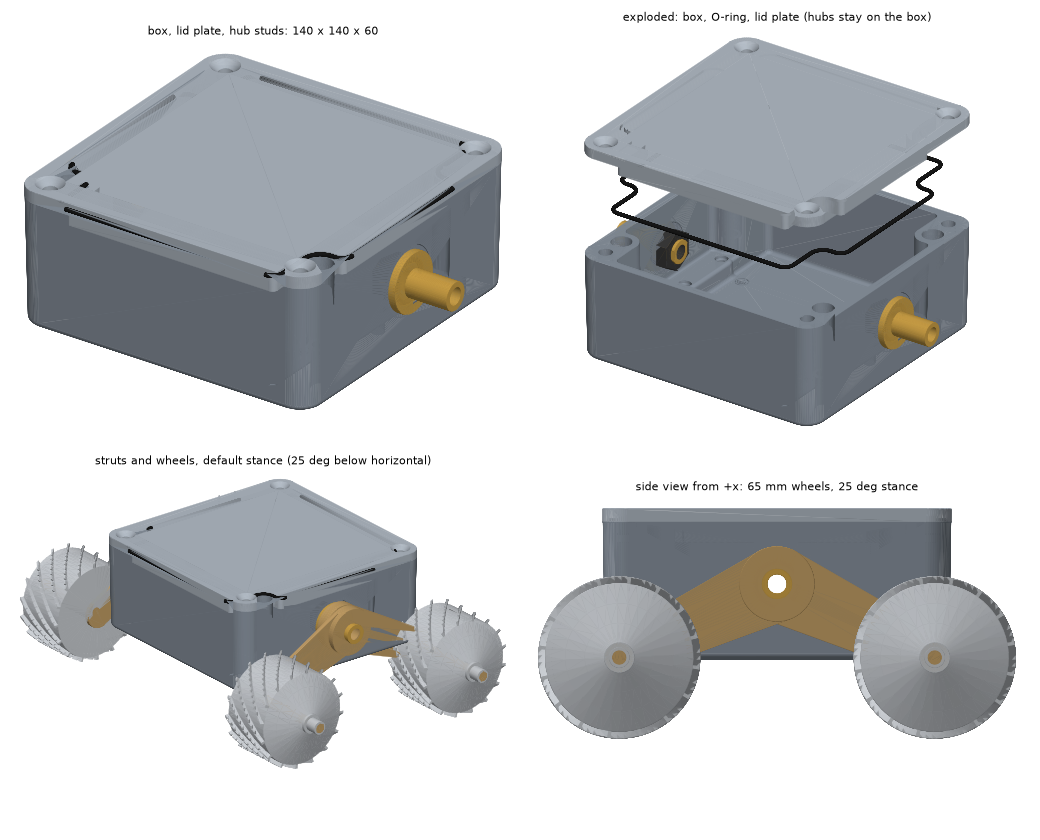
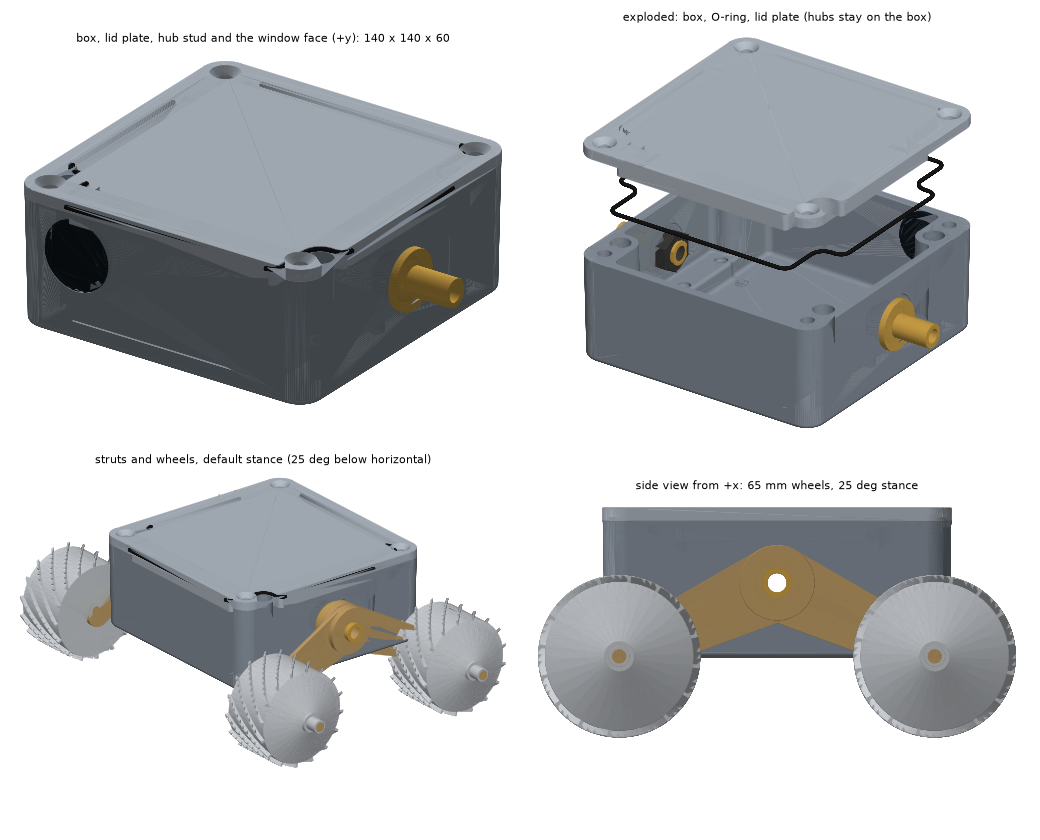
Measure the second photo's end face and model the viewing window
Window 26 mm across, axis 29 mm from the face edge and 36.8 mm above the base; connector panel, screws and the top block measured and recorded.

Claude-Session: https://claude.ai/code/session_01B6dv3QuHVS7hsLwZuvmfHM

diff --git a/hardware/body/body.py b/hardware/body/body.py
@@ -27,6 +27,10 @@ modelled as a stationary hollow pivot stud on each 140 x 60 face (x = +-70, y = 
 on, with no rotating shaft through the wall: the seals are static (a face O-ring under the stud flange) and the
 wires go through the stud bore and are potted.  A double-D shank keeps the stud from turning.
 
+Viewing window: the second JPL photo shows a round window and a connector panel on one 140 x 60 end face.  Rectifying that
+face puts the window axis 29 mm from one edge and 37 mm above the base, 26 mm across.  It is modelled on the y = +70 face as a 26 mm aperture
+with a 31 mm counterbore and a bonded pane.  The connector panel (about 22 x 14.5 mm) and the small screws are not modelled.
+
 Cover-screw threads: each boss is only 5 mm tall (z 50 to the rim at 55) and its bore is open at the bottom
 into the cavity.  A 1D (6 mm) M6 x 1.0 helical insert is fitted flush with the top (recessed 0.4 mm); it
 stands 1.4 mm out of the bottom of the boss.  The bore is modelled at the tapped major diameter (7.2 mm).
@@ -87,6 +91,13 @@ HUB_AXLE_L = 20.0    # axle stub outside the flange (placeholder for the strut b
 HUB_OR_ID, HUB_OR_CS = 16.0, 1.5         # face O-ring 16 x 1.5
 HUB_GROOVE_W, HUB_GROOVE_D = 2.0, 1.1
 NUT_AF, NUT_H = 19.0, 6.0                # M12 thin jam nut (check the standard for your nut)
+WINDOW = True        # round viewing window on the +y end face (the camera / IR spectrometer window)
+WIN_X = 40.8         # window axis: |x| offset along the face. Seen from outside (standing at +y, looking at the face) the window is on the LEFT, i.e. x = +40.8
+WIN_Z = 36.8         # height above the floor of the window axis (from the second JPL photo)
+WIN_D = 26.0         # aperture diameter
+WIN_CB_D = 31.0      # counterbore for the pane
+WIN_FLOOR_Y = 67.2   # counterbore floor plane (the outer wall face is 69.64 at z = 36.8 and leans about 1 degree)
+PANE_D, PANE_T = 30.6, 2.0   # glass or acrylic pane, bonded in with RTV
 # --------------------------------------------
 
 RIM_R = 10.0         # outer corner radius of the casting (measured from the STEP)
@@ -181,6 +192,21 @@ def main():
             hub_parts.append(at_hub(stud, side))
             hub_orings.append(at_hub(oring_h, side))
             hub_nuts.append(at_hub(nut, side))
+
+    # 2d. Viewing window on the +y end face
+    pane = None
+    if WINDOW:
+        def on_y(shape, y0):
+            """Shape built along +z, placed with its base at (WIN_X, y0, WIN_Z) pointing along +y."""
+            return shape.moved(Location(Plane(origin=(WIN_X, y0, WIN_Z), x_dir=(1, 0, 0), z_dir=(0, 1, 0))))
+        before = body.volume
+        aperture = Cylinder(WIN_D / 2, 12, align=(Align.CENTER, Align.CENTER, Align.MIN))
+        cbore = Cylinder(WIN_CB_D / 2, 8, align=(Align.CENTER, Align.CENTER, Align.MIN))
+        body = body - on_y(aperture, 62.0) - on_y(cbore, WIN_FLOOR_Y)
+        removed = before - body.volume
+        expect = math.pi * (WIN_D / 2) ** 2 * (WIN_FLOOR_Y - 65.06) + math.pi * (WIN_CB_D / 2) ** 2 * (69.64 - WIN_FLOOR_Y)
+        pane = on_y(Cylinder(PANE_D / 2, PANE_T, align=(Align.CENTER, Align.CENTER, Align.MIN)), WIN_FLOOR_Y)
+        win_info = (removed, expect)
 
     # 3. Lid plate: 140 x 140, R10 corners (matches the box at the rim), groove on its underside
     plate = extrude(RectangleRounded(140, 140, 10), PLATE_T).moved(Location((0, 0, Z_CUT)))
@@ -292,12 +318,22 @@ def main():
         print(f"                    stud mass {sum(p.volume for p in hub_parts) * 7.9e-3 / 2:.0f} g each (stainless), nut {nuts.volume * 7.9e-3 / 2:.0f} g each")
         print(f"                    nut across corners {NUT_AF / math.cos(math.radians(30)):.1f} mm in a {SPOT_IN_D} mm inner spot-face")
 
+    if WINDOW:
+        removed, expect = win_info
+        hit = pane & body
+        print(f"window              {WIN_D} mm aperture, axis x = {WIN_X}, z = {WIN_Z} on the +y face; {WIN_CB_D} mm counterbore, pane {PANE_D} x {PANE_T} mm; "
+              f"material removed {removed:.0f} mm3 against {expect:.0f} mm3 expected for the plain wall (they agree if the hole meets no corner feature)")
+        print(f"                    pane/body overlap {hit.volume if hit else 0.0:.2f} mm3; wall left under the pane {WIN_FLOOR_Y - 65.06:.2f} mm; "
+              f"pane recessed {69.64 - (WIN_FLOOR_Y + PANE_T):.2f} mm")
+
     export_step(body, str(OUT / "body_hammond.step"))   # contains Hammond geometry: git-ignored
     plate = nurbs(plate)
     export_step(plate, str(OUT / "lid_plate.step"))
     export_step(oring, str(OUT / "oring.step"))
     if INSERT:
         export_step(Compound(insert_parts), str(OUT / "inserts.step"))
+    if WINDOW:
+        export_step(pane, str(OUT / "window_pane.step"))
     if HUBS:
         export_step(Compound(hub_parts), str(OUT / "hub_studs.step"))
         export_step(Compound(hub_orings + hub_nuts), str(OUT / "hub_orings_and_nuts.step"))

diff --git a/hardware/assembly/preview.py b/hardware/assembly/preview.py
@@ -25,9 +25,9 @@ IMG = HW.parent / "docs" / "images" / "rover-preview.png"
 # (file, colour, explode multiplier)
 PARTS = [(HW / "body/out/body_hammond.step", "#8d97a3", 0), (HW / "body/out/oring.step", "#1a1a1a", 1),
          (HW / "body/out/lid_plate.step", "#b4bdc7", 2), (HW / "body/out/hub_studs.step", "#d6a84a", 0),
-         (HW / "body/out/hub_orings_and_nuts.step", "#3a3a3a", 0), (HW / "strut/out/struts.step", "#c9a46a", 0),
+         (HW / "body/out/hub_orings_and_nuts.step", "#3a3a3a", 0), (HW / "body/out/window_pane.step", "#101820", 0), (HW / "strut/out/struts.step", "#c9a46a", 0),
          (HW / "wheel/out/wheels.step", "#cfd3d8", 0)]
-BASE = {"body_hammond", "oring", "lid_plate", "hub_studs", "hub_orings_and_nuts"}
+BASE = {"body_hammond", "oring", "lid_plate", "hub_studs", "hub_orings_and_nuts", "window_pane"}
 
 
 def mesh_of(path, tmp):
@@ -78,7 +78,7 @@ def main():
         meshes = [mesh_of(p, tmp) for p, _, _ in PARTS]
     everything = {p.stem for p, _, _ in PARTS}
     fig, axs = plt.subplots(2, 2, figsize=(13, 10.5))
-    render(axs[0, 0], meshes, 28, -55, BASE, title="box, lid plate, hub studs: 140 x 140 x 60")
+    render(axs[0, 0], meshes, 26, 125, BASE, title="box, lid plate, hub stud and the window face (+y): 140 x 140 x 60")
     render(axs[0, 1], meshes, 28, -55, BASE, explode=28, title="exploded: box, O-ring, lid plate (hubs stay on the box)")
     render(axs[1, 0], meshes, 24, -38, everything, title="struts and wheels, default stance (25 deg below horizontal)")
     render(axs[1, 1], meshes, 0, 0, everything, title="side view from +x: 65 mm wheels, 25 deg stance")

diff --git a/hardware/assembly/rover.py b/hardware/assembly/rover.py
@@ -20,6 +20,7 @@ PARTS = [  # (label, file, material density g/cm3 as used by the individual scri
     ("box (die-cast, cut)", HW / "body/out/body_hammond.step", 2.70),
     ("lid plate with rib", HW / "body/out/lid_plate.step", 2.70),
     ("lid O-ring", HW / "body/out/oring.step", 1.2),
+    ("window pane", HW / "body/out/window_pane.step", 2.5),
     ("cover-screw inserts", HW / "body/out/inserts.step", 7.9),
     ("hub studs", HW / "body/out/hub_studs.step", 7.9),
     ("hub O-rings and nuts", HW / "body/out/hub_orings_and_nuts.step", 7.9),

diff --git a/docs/photo-measurements.md b/docs/photo-measurements.md
@@ -41,7 +41,18 @@ from the first photo). Same method: about 440 line segments along the cell edges
 - **Top face:** rectified, it measures about 518 x 465 px, **1.11:1, not square**. This is a different unit from the first photo's square body, and not 14 x 14 cm.
 - **Wheels:** two wheels are seen almost edge-on (the axle 78 to 80 degrees from the viewing ray), which shows the cone profile directly. The collar sits on a cone apex about 10 mm
   above the rim; the smooth cylinder behind it carries helical grousers (thin blades standing radially, serrated along their edges), 16 of them, leaning about 43.5 degrees from the axle, right-handed. See `wheel-spec.md` for the table.
-- **Not yet measured from this photo:** the body's height and length (the window face and the raised block on top are the first things worth measuring, for the camera window).
+- **End face with the window.** Rectified face-on (plane normal along the body's long axis, using the same camera), the face is 1065 px wide and 470 px tall including a base band and a seam line near the top: 0.44 high to wide, against 6/14 = 0.43. Taking the face width as 140 mm (3% uncertain, since a 60 mm body height would make it 136 mm) gives:
+
+| Feature | Value | Notes |
+|---|---|---|
+| Face | about 140 x 62 mm | a base band about 12.5 mm tall under a green seam line, then the main face |
+| Round window | 26 mm across; axis 29.2 mm from the left edge, 36.8 mm above the base | centred in the main face; the window looks black and glassy |
+| Connector panel | about 22.3 x 14.5 mm, rounded rectangle, centred 59.8 mm from the left edge at the window's height | a circular connector on a two-screw flange; two screws about 12.5 mm above and below its centre |
+| Corner screws | four small ones about 2.6 mm from the face's side edges, at about 21.7 and 50.6 mm above the base | about 2 mm heads |
+
+ The top face of this unit is then about 156 x 140 mm (the long axis being the one the end face's normal points along), not square.
+- **Top face.** A raised block close to the centre (offset about 8 mm and 4 mm from the face centre), footprint about 50 x 45 mm, with a cyan sensor-like panel on one sloping side, and a loop antenna made of two wires rising from it
+  with a white bone-shaped piece lying beside it. The block's height was not measured (roughly 15 to 20 mm by eye). These are not the MUSES-CN features in the papers (a square patch antenna on the top face).
 
 ## What this does not give
 

diff --git a/docs/body-spec.md b/docs/body-spec.md
@@ -90,7 +90,14 @@ screw bores are open to the cavity, and the screws are sealed with O-rings under
     different design and is not modelled.
   - **Open:** potted wires crossing a rotating strut joint (a hollow axle allows limited twist, not continuous rotation), the strut torque
     reaction on the stud, the anti-rotation fit, and the strut bearings and seals. The struts and wheels are not modelled.
-- **Not modelled yet:** the camera window, the antenna and cell wiring feedthroughs, finish, the lid screws and O-ring washers, the wheel and strut motors.
+- **Viewing window (modelled).** The second JPL photo shows a round window and a small connector panel on one 140 x 60 end face. Rectified face-on (see
+  `photo-measurements.md`), the window is **26 mm across, its axis 29 mm from one edge of the face and 36.8 mm above the base**, and the face measures about 140 x 62 mm.
+  On the +y face, seen from outside, the window is on the left: x = +40.8, z = 36.8. The model cuts a 26 mm aperture and a 31 mm counterbore 2.4 mm deep (2.14 mm of wall left
+  under the pane) and adds a 30.6 x 2.0 mm glass or acrylic pane (`window_pane.step`), bonded with RTV and recessed 0.44 mm. The wall there is plain (4.6 mm, drafted): the
+  aperture's outer edge reaches the thickened corner fillet at x = 50 to 54, which adds about 90 mm3 of cutting and leaves the wall whole. Nothing behind the window is
+  modelled: the camera and IR optics sit between the optical-bench panels in the papers. The photo's window looks black and glassy; its glazing, any seal beyond the adhesive, and the
+  optics are open. The connector panel (about 22 x 14.5 mm, centred 59.8 mm from the same edge at the same height, with two small screws) is not modelled.
+- **Not modelled yet:** the connector panel, the antenna and cell wiring feedthroughs, finish, the lid screws and O-ring washers, the wheel and strut motors.
   The plate holes are 6.6 mm with a 12.4 mm countersink for M6 flat-head screws (ISO 10642), M6 x 12.
 - **Draft:** the casting is drafted (outer faces 138.4 mm wide at z = 10, 140.0 at the rim). The model keeps Hammond's geometry, so the
   60 mm height is exact and the footprint is 140 mm only at the rim.

diff --git a/CLAUDE.md b/CLAUDE.md
@@ -46,4 +46,4 @@ by NASA in November 2000. A hobby build in the spirit of the sibling project `ma
 ## Design status
 - Body 140 x 140 x 60 mm; total modelled mass about 1.5 kg (1459 g) before motors and electronics (target 1.3 kg: the cast box is the heavy part).
 - Struts: 70 mm pivot to axle, two per side on a stationary hub stud. Wheels: 65 mm over the teeth, a conical outer disk on a smooth hollow cylinder with 16 helical grousers (thin radial blades with serrated edges), fitted to the second JPL photo (`docs/wheel-spec.md`).
-- Not yet modelled: camera window, antenna, wiring feedthroughs, the strut and wheel motors, the lid screws and O-ring washers, finish.
+- Not yet modelled: the connector panel, antenna, wiring feedthroughs, the camera and optics behind the window (the 26 mm window itself is modelled), the strut and wheel motors, the lid screws and O-ring washers, finish.
